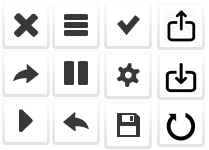
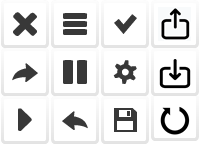
Buttons aufgehübscht

diff --git a/src/scenes/SidebarScene.ts b/src/scenes/SidebarScene.ts
@@ -58,7 +58,12 @@ export default abstract class SidebarScene extends Phaser.Scene {
   }
 
   protected pack(
-    objects: (Phaser.GameObjects.Image | Phaser.GameObjects.Sprite | Phaser.GameObjects.DOMElement | undefined)[],
+    objects: (
+      | Phaser.GameObjects.Image
+      | Phaser.GameObjects.Sprite
+      | Phaser.GameObjects.DOMElement
+      | Phaser.GameObjects.Text
+      | undefined)[],
   ): void {
     if (this.container) {
       const padding = 15;
@@ -71,6 +76,13 @@ export default abstract class SidebarScene extends Phaser.Scene {
           this.container.add(object);
           this.container.height += objectHeight + padding;
         }
+        // Wie hier auf Typ gleichheit prüfen ?
+        //if (object=== Phaser.GameObjects.Text) {
+        //const objectHeight = object.height;
+        //object.setPosition(SidebarScene.getWidth() / 2, this.container.height + objectHeight / 2 + padding);
+        //this.container.add(object);
+        //this.container.height += objectHeight + padding;
+        //}
       }
     }
   }

diff --git a/src/scenes/EditorScene.ts b/src/scenes/EditorScene.ts
@@ -23,8 +23,17 @@ export default class EditorScene extends SidebarScene {
     const source = this.add.image(0, 0, 'source_icon');
     const motor = this.add.image(0, 0, 'motor_icon');
     const sensor = this.add.image(0, 0, 'sensor_icon');
-    const grundformen = this.add.image(0, 0, 'grundformen');
-    const vorlagen = this.add.image(0, 0, 'vorlagen');
+
+    const vorlagen = this.add
+      .text(-40, 0, 'Vorlagen')
+      .setFontSize(23)
+      .setColor('black')
+      .setFontFamily('Calibri');
+    const grundformen = this.add
+      .text(-40, 0, 'Grundformen')
+      .setFontSize(23)
+      .setColor('black')
+      .setFontFamily('Calibri');
 
     this.makeInteractable(prefab, position => {
       const entity = new Entity();
